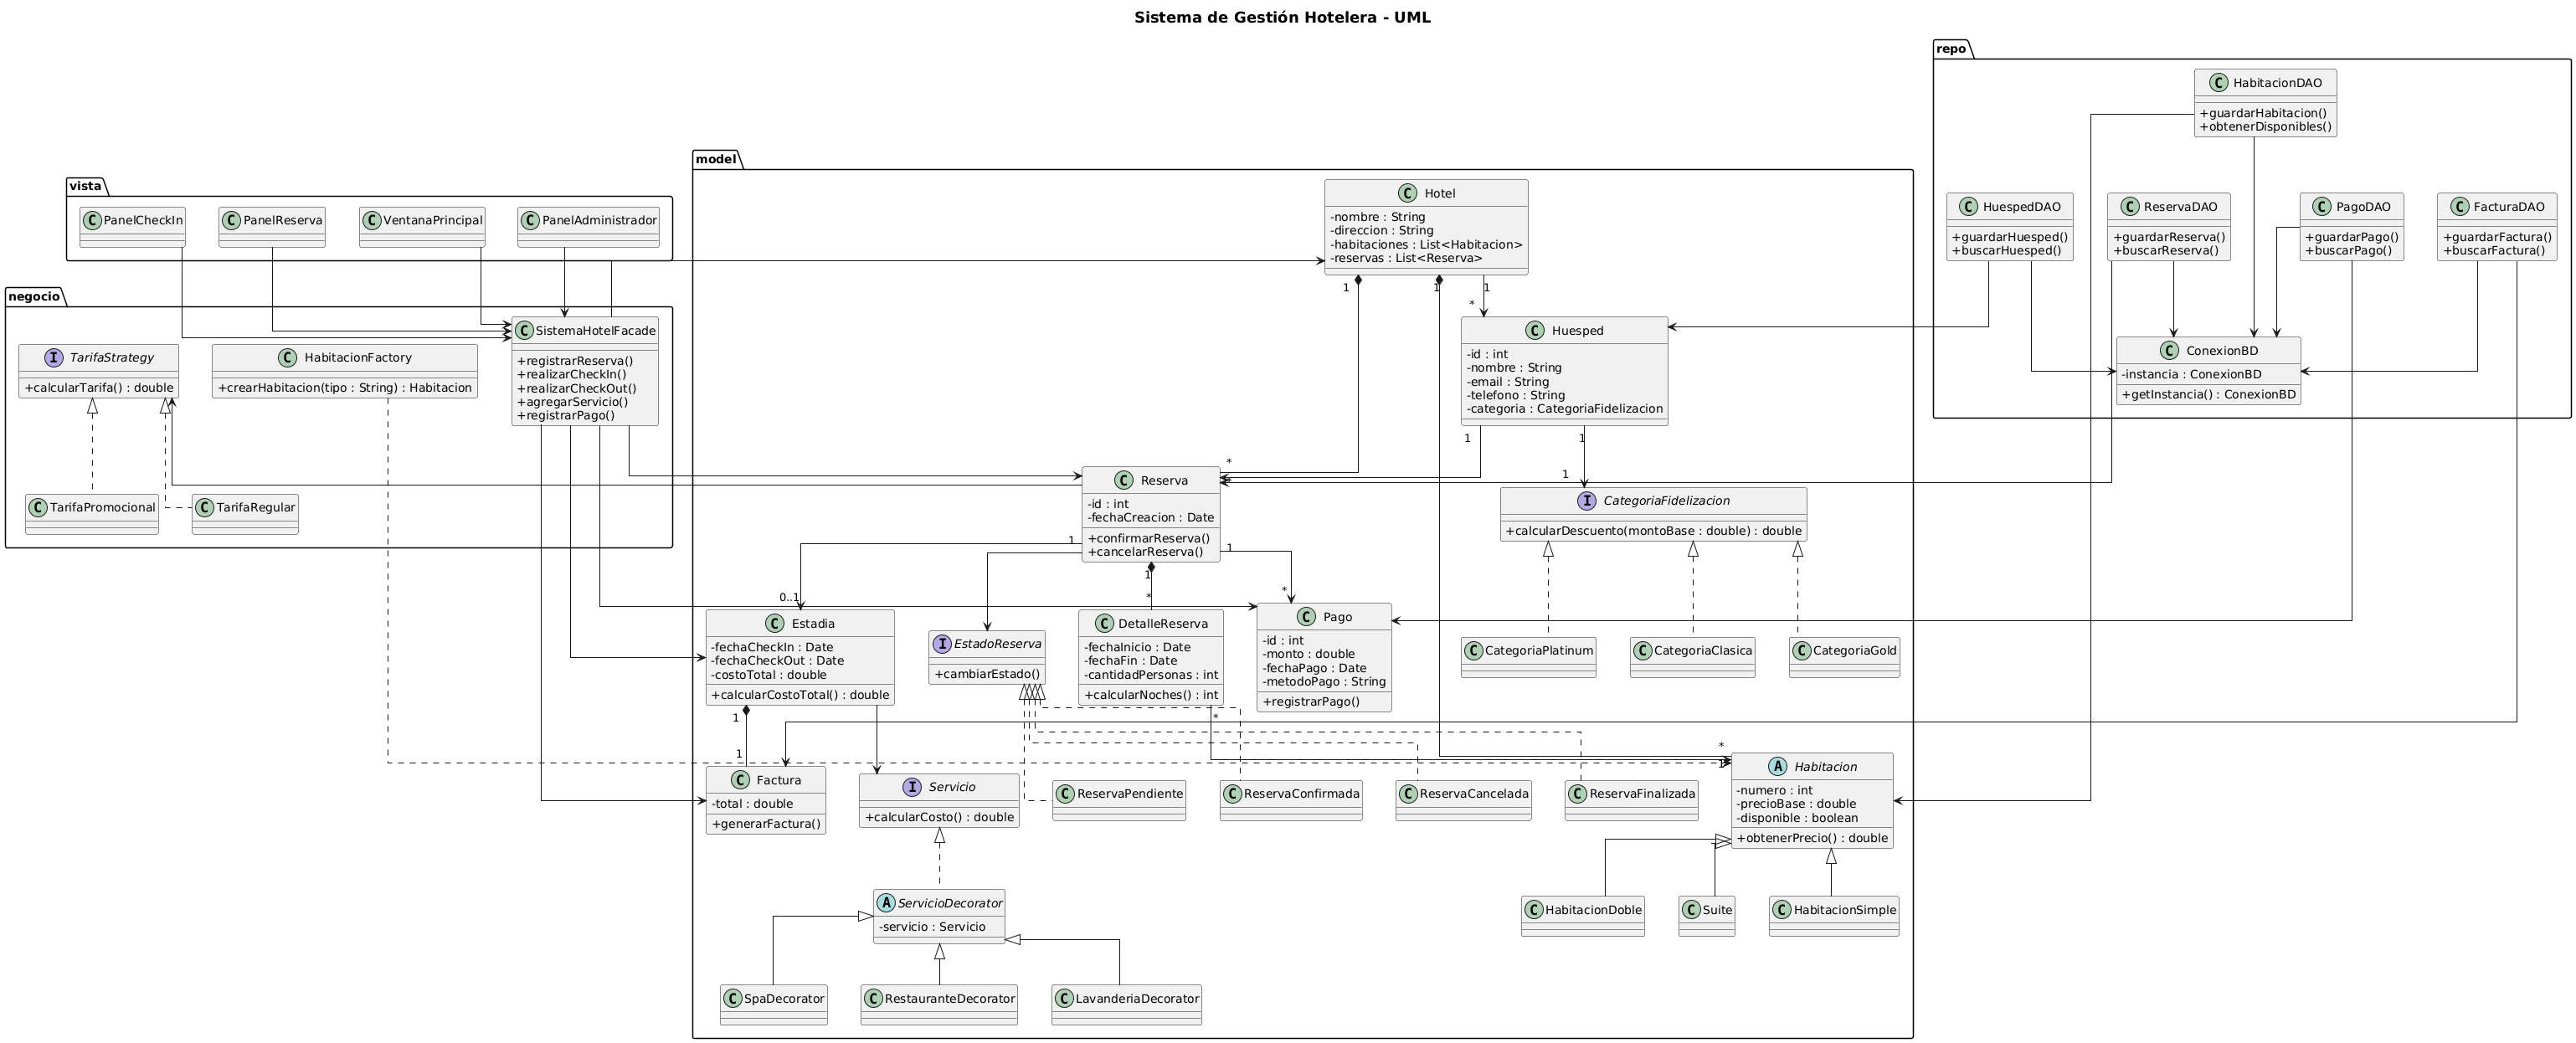
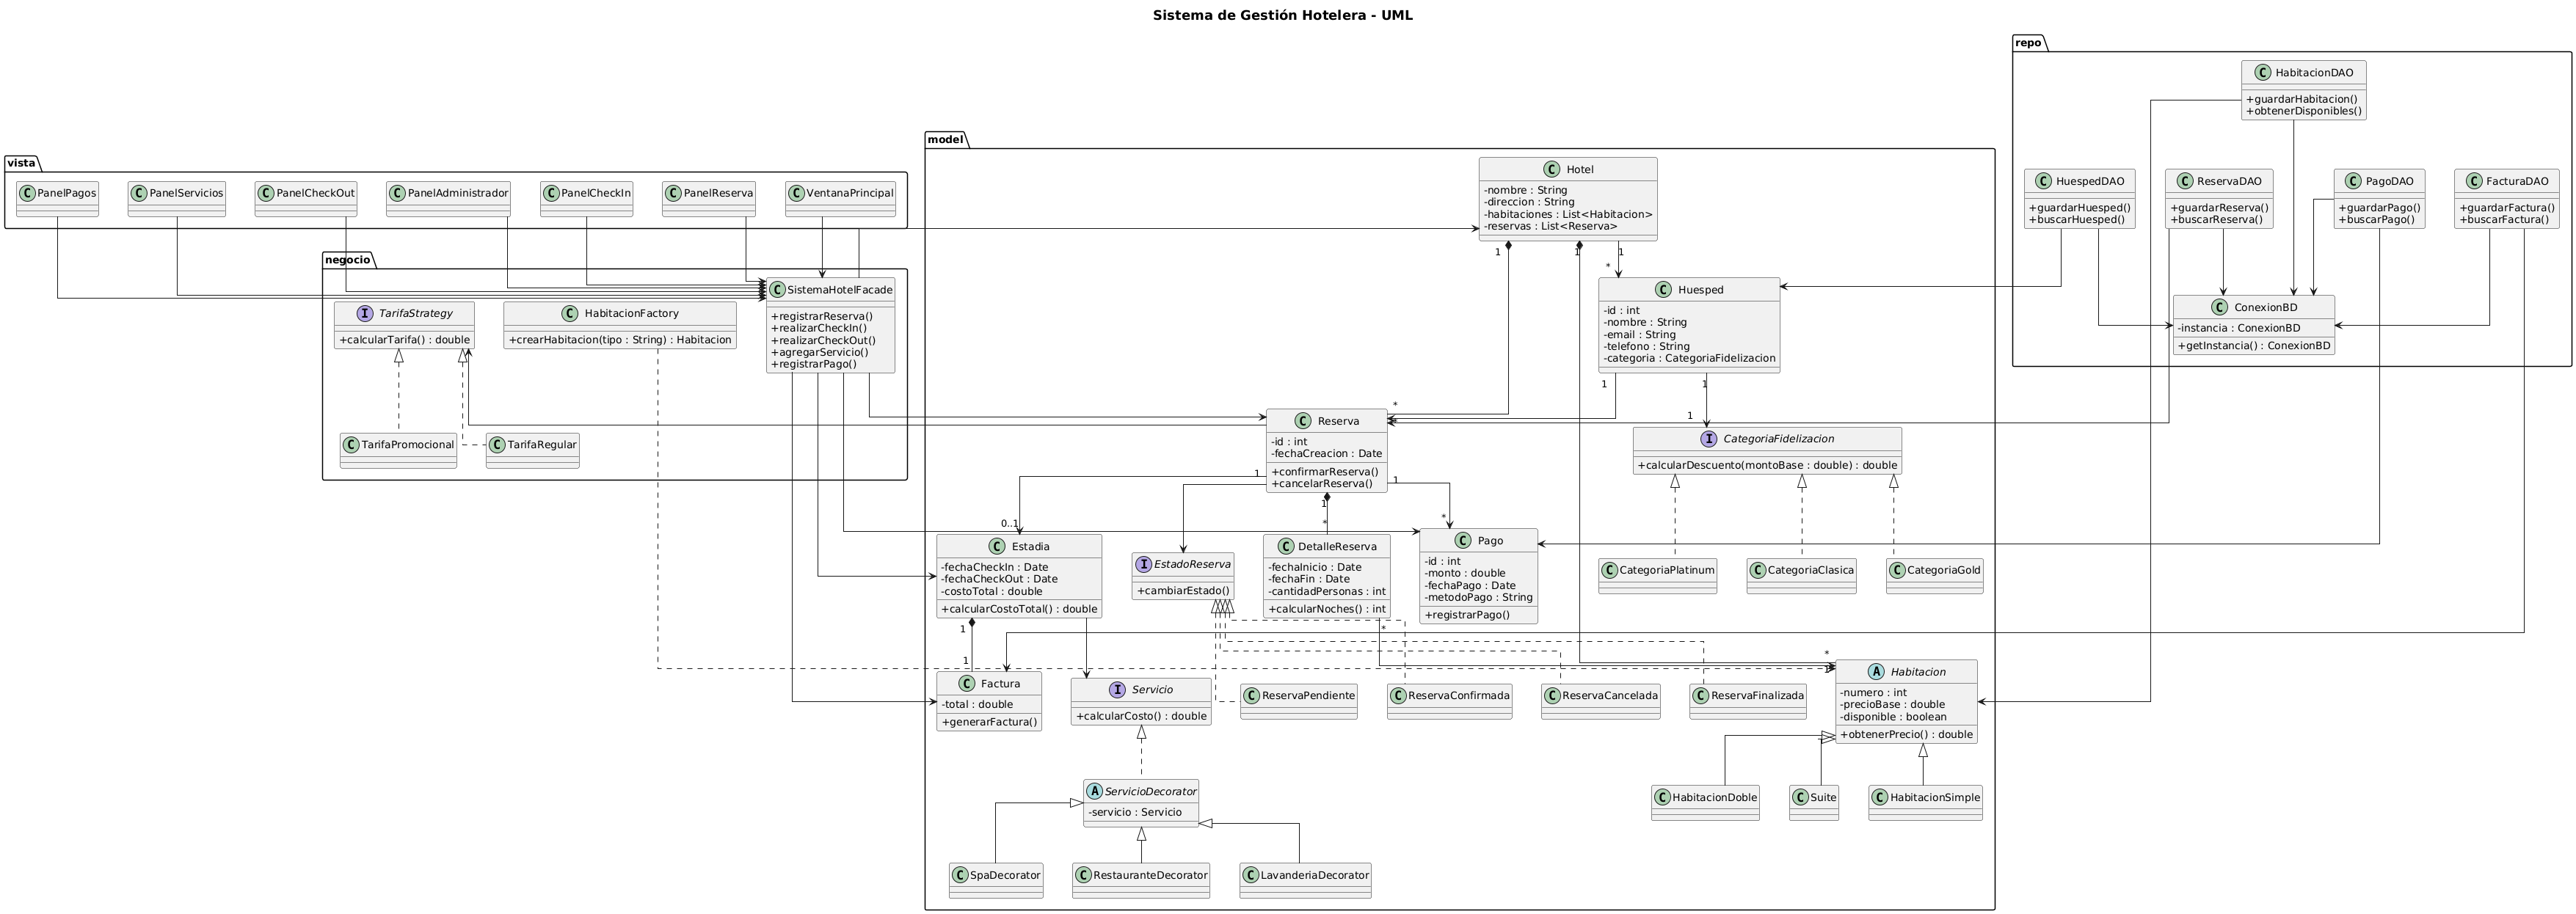
cambios en el readme y uml actualizado

diff --git a/registro_tareas.md b/registro_tareas.md
@@ -1,13 +1,48 @@
-# Registro de Tareas
+# Registro de Tareas y Participación Individual (Fases 1, 2 y 3)
 
-## Fase 1: Análisis del problema y diseño inicial
-* Joaquín De Luca: Creación del repositorio, UML.
-* Lautaro Vita: Diagrama de secuencia 2.
-* Claudino Diaz: Diagrama de secuencia 1.
+El presente documento detalla la participación real de cada integrante del equipo, basada en el historial de commits del repositorio GitHub, demostrando los aportes de cada uno a lo largo del desarrollo del TPO.
 
-## Fase 2: Diseño orientado a objetos y patrones
-* **Joaquín De Luca:** Configuración inicial del entorno Java. Programación de la capa de dominio (`model`), definición de entidades puras, relaciones y justificación teórica de los principios SOLID implementados (SRP con la división de `DetalleReserva`, OCP, LSP).
+## Joaquín De Luca (@joaacoo)
+**Rol Principal:** Diseño arquitectónico del Modelo, UI/UX y Estructura Base.
+* **Fase 1:** 
+  * Estructuración inicial del proyecto y primer commit.
+  * Elaboración de los primeros Casos de Uso (CU), Diagrama de Clases (DC) y diagramas UML.
+* **Fase 2:**
+  * Implementación core de la lógica del negocio (Capa `model`).
+  * Reorganización estructural de la carpeta modelo y entidades.
+  * Desarrollo inicial de las interfaces gráficas y paneles de vista (login admin, etc.).
+  * Refactor de UI y conexión a base de datos.
+* **Fase 3:**
+  * Configuración del entorno (Librería mysql-connector-j, gitignore).
+  * Mejoras finales en UI y corrección de errores visuales.
+  * Modificaciones en persistencia de HuespedDAO (identificación con DNI) y ReservaDAO.
+  * Ajustes finales en lógica de Factura e implementación de Servicios Adicionales (Decorator dinámico).
 
-* **Lautaro Vita:** Responsable de la capa de negocio. Implementación del controlador principal aplicando el patrón Facade (`SistemaHotelFacade`) y estructuración de los patrones creacionales y de comportamiento (Factory Method y Strategy).
+## Lautaro Vita (@Lautivita)
+**Rol Principal:** Controlador, Fachada y Patrones de Negocio.
+* **Fase 1:**
+  * Elaboración del Diagrama de Secuencia 2 enfocado en el Check-in.
+  * Estructuración inicial de los paquetes `vista` y `negocio`.
+* **Fase 2:**
+  * Implementación del patrón Facade (`SistemaHotelFacade`) y Factory (`HabitacionFactory`).
+  * Implementación de estrategias de Tarifas (`TarifaStrategy`).
+  * Correcciones en el diagrama de secuencia de Check-in.
+* **Fase 3:**
+  * Sincronización entre capa de presentación y repositorio.
+  * Cambios avanzados en `repo` y `vista` para mejorar la gestión dinámica de los estados polimórficos de la reserva.
 
-* **Claudino Diaz:** A cargo del diseño y programación de la capa de acceso a datos (`repo`), definiendo las interfaces y simulando la persistencia de los DAOs. Responsable de implementar el patrón Singleton para la conexión a la base de datos y documentar los patrones GRASP.
+## Claudino Diaz (@ClauDrive / @ClaudinoDiaz)
+**Rol Principal:** Persistencia de Datos (DAO), Conexión JDBC y Diseño SQL.
+* **Fase 1:**
+  * Diseño del Diagrama de Secuencia 1 para la gestión de reservas.
+* **Fase 2:**
+  * Implementación de la capa de Acceso a Datos (DAOs) y patrón Singleton para `ConexionBD`.
+  * Integración de la conexión JDBC a MySQL y desarrollo de las sentencias SQL en todos los DAOs.
+  * Actualización técnica de los diagramas de secuencia.
+* **Fase 3:**
+  * Actualización del script SQL (`hotel_db.sql`) integrando nuevas tablas de facturas, pagos y configuraciones.
+  * Programación del Panel Admin dinámico y la gestión del cobro de señas desde la BD.
+
+---
+
+> **Nota para la defensa:** Como se observa en este registro (y en el historial de la rama `main` en GitHub), el desarrollo fue altamente colaborativo. Joaquín sentó las bases del modelo de dominio y la UI, Lautaro interconectó ambas puntas implementando la Fachada y los patrones de comportamiento, y Claudino desarrolló toda la infraestructura de persistencia relacional que hace que el sistema sea completamente funcional.

diff --git a/README.md b/README.md
@@ -6,28 +6,39 @@
 * Claudino Diaz
 
 ## Descripción breve del sistema
-Plataforma integral para administrar de manera centralizada reservas, habitaciones, huéspedes y servicios adicionales de una cadena hotelera. El sistema automatiza procesos de check-in/check-out, calcula costos dinámicos y facilita la gestión de la disponibilidad en tiempo real.
+Plataforma integral construida en Java bajo una arquitectura de 4 capas (Vista, Negocio, Modelo, Repositorio) para administrar de manera centralizada reservas, habitaciones, huéspedes y servicios adicionales de una cadena hotelera. El sistema automatiza procesos de check-in/check-out, calcula costos dinámicamente y facilita la gestión de la disponibilidad en tiempo real con conexión a una base de datos MySQL.
 
 ## Instrucciones para ejecutar el proyecto
-*Pendiente para la Fase 3.*
+1. Clonar el repositorio.
+2. Abrir el proyecto en un IDE (IntelliJ IDEA, Eclipse, NetBeans) configurado con Java (JDK 8 o superior).
+3. Importar el script `hotel_db.sql` en un servidor local MySQL (ej. XAMPP o MySQL Workbench) para crear la base de datos y poblar los datos iniciales.
+4. (Opcional) Verificar que las credenciales en `com.teamvita.hotel.repo.ConexionBD` coincidan con su motor local (por defecto `root` sin contraseña).
+5. Ejecutar la clase principal `com.teamvita.hotel.Main` (o directamente `VentanaPrincipal`).
+6. Iniciar sesión con:
+   - **Recepción**: User: `recepcion` / Pass: `recepcion123`
+   - **Administrador**: User: `admin` / Pass: `admin123`
 
-## Patrones aplicados (Fase 2)
+## Patrones aplicados (Fase 3)
 * **Factory Method:** `HabitacionFactory` para instanciar de forma centralizada las variantes de habitaciones.
-* **Singleton:** `ConexionBD` para garantizar una única conexión a la base de datos MySQL.
-* **Facade:** `SistemaHotelFacade` como controlador unificado desde la interfaz gráfica hacia el dominio.
-* **Decorator:** `ServicioDecorator` para agregar servicios adicionales dinámicamente a la estadía (Spa, Restaurante, Lavandería).
-* **Strategy:** Implementado en `TarifaStrategy` (cálculo de precios comerciales) y `CategoriaFidelizacion` (cálculo de beneficios para el huésped).
-* **State:** `EstadoReserva` para administrar las transiciones lógicas de las reservas.
+* **Singleton:** `ConexionBD` para garantizar una única conexión a la base de datos MySQL compartida por todos los DAOs.
+* **Facade:** `SistemaHotelFacade` como controlador unificado desde la interfaz gráfica hacia la lógica de dominio.
+* **Decorator (Dinámico):** `ServicioDinamicoDecorator` para agregar consumos extra consultando los precios directamente desde la BD en tiempo de ejecución.
+* **Strategy:** Implementado en `TarifaStrategy` (cálculo de precios comerciales) y `CategoriaFidelizacion` (beneficios para el huésped).
+* **State:** `EstadoReserva` para administrar polimórficamente las transiciones lógicas (Pendiente, Confirmada, Cancelada).
 
 ## Principios SOLID aplicados
-* **Single Responsibility Principle (SRP):** Alta separación de responsabilidades, evidenciada en la refactorización de la clase `Reserva`, extrayendo la lógica específica de ocupación hacia la clase `DetalleReserva` para evitar una "Clase Dios".
-* **Open/Closed Principle (OCP):** El uso del patrón Decorator permite añadir nuevos servicios adicionales facturables sin tener que modificar la clase `Estadia`.
-* **Liskov Substitution Principle (LSP):** La jerarquía de habitaciones (`Suite`, `HabitacionSimple`, `HabitacionDoble`) permite sustituir la clase base abstracta en los procesos de negocio asegurando el comportamiento correcto mediante polimorfismo.
+* **Single Responsibility Principle (SRP):** Alta separación de responsabilidades: los objetos del dominio no acceden a la BD, los DAOs no manejan reglas de negocio y las vistas Swing solo dibujan la interfaz.
+* **Open/Closed Principle (OCP):** El uso del `ServicioDinamicoDecorator` permite añadir infinitos servicios adicionales desde la base de datos sin necesidad de crear clases Java nuevas, cerrando el código a modificaciones.
+* **Liskov Substitution Principle (LSP):** La jerarquía de habitaciones permite sustituir la clase base en los procesos iterativos asegurando el comportamiento correcto mediante polimorfismo puro.
+* **Dependency Inversion Principle (DIP):** El controlador principal no depende de las estrategias concretas de descuento o estado, sino de sus abstracciones correspondientes.
 
 ## Patrones GRASP aplicados
-* **Controlador (Controller):** La clase `SistemaHotelFacade` recibe y coordina las operaciones del sistema.
-* **Experto en Información (Information Expert):** La clase `Estadia` posee la responsabilidad de calcular el costo total porque contiene los días alojados y los servicios consumidos.
-* **Alta Cohesión y Bajo Acoplamiento:** Asegurado mediante la estricta división en 4 paquetes funcionales (`vista`, `negocio`, `model`, `repo`).
+* **Controlador (Controller):** La clase `SistemaHotelFacade` recibe y coordina los eventos de la UI hacia el sistema.
+* **Experto en Información (Information Expert):** La clase `Estadia` posee la responsabilidad de calcular el costo total porque concentra los días alojados y consumos.
+* **Variaciones Protegidas:** Se aisló al sistema central de cambios en lógicas de cálculo mediante interfaces (Strategy y State).
+* **Alta Cohesión y Bajo Acoplamiento:** Asegurado mediante la estricta división en paquetes funcionales (`vista`, `negocio`, `model`, `repo`).
 
 ## Distribución de tareas
-Ver el archivo `registro_tareas.md` para el detalle de la participación y responsabilidades de cada integrante en las distintas fases del proyecto.
+* **Joaquín De Luca**: Lógica de entidades de dominio (`model`), implementación de cálculos polimórficos, refactorización de colecciones para acompañantes.
+* **Lautaro Vita**: Desarrollo de controladores (`negocio`), implementación de patrones creacionales, orquestación de la interfaz gráfica Swing y el decorador dinámico.
+* **Claudino Diaz**: Arquitectura de persistencia (`repo`), diseño de base de datos MySQL, optimización de consultas SQL y diseño de escenarios de prueba.